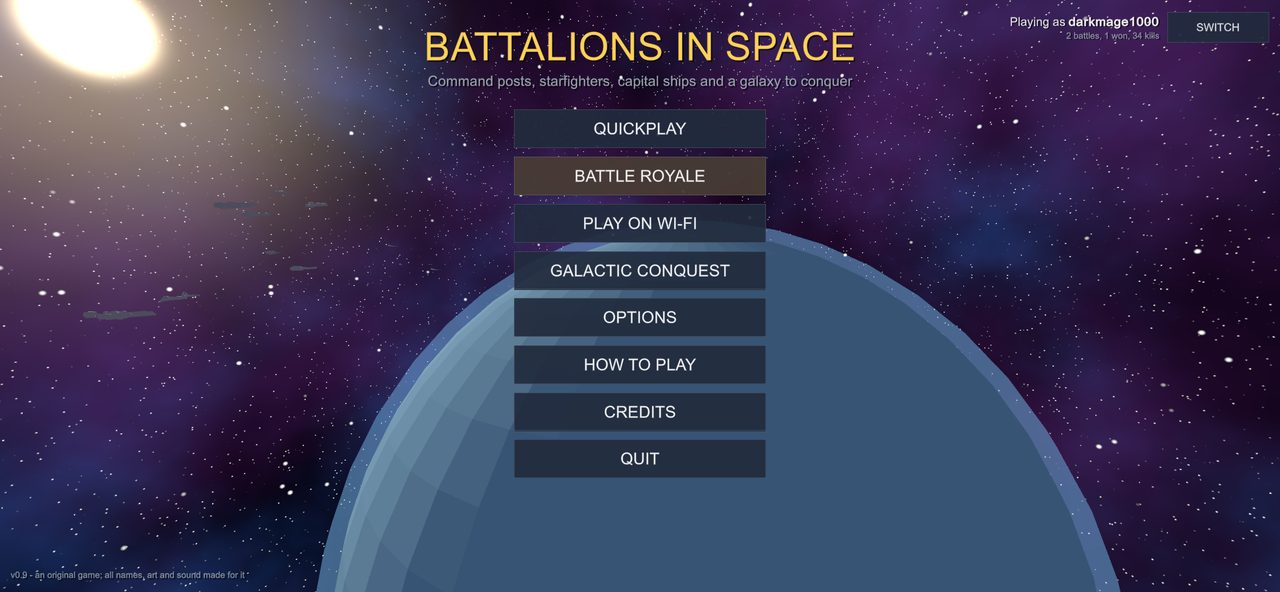
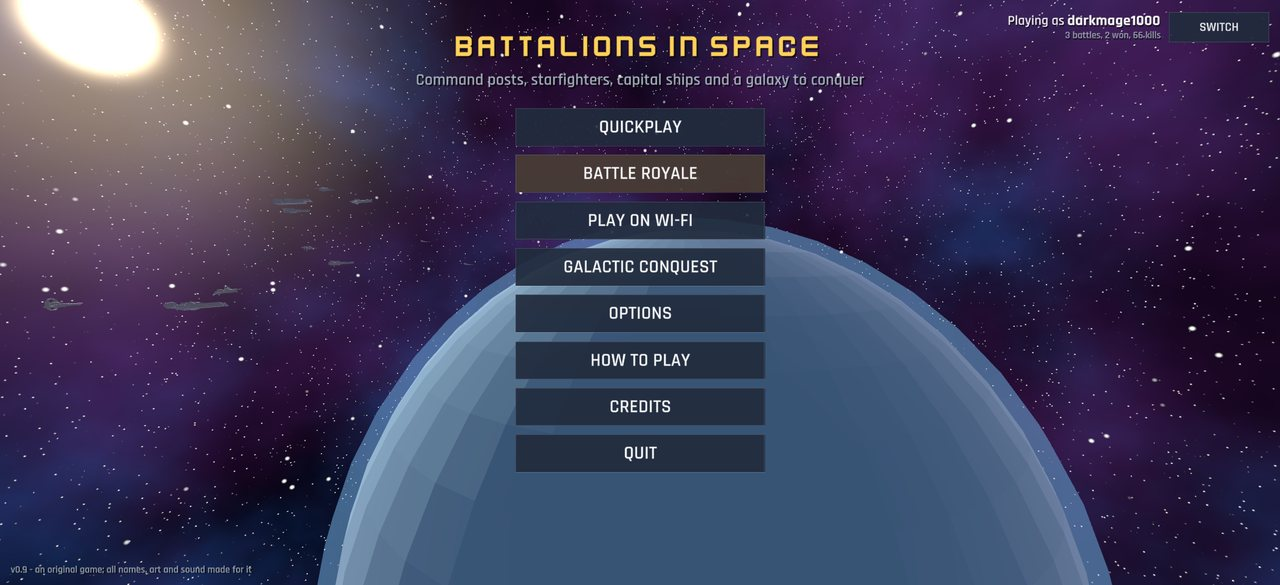
README: new screenshots (menu, land battle, a village, the Synod mech), v0.10 download names; the Synod tank is now called the Monolith Walker; human undersuits in a shade of the armour so gaps between plates read as shading

diff --git a/Assets/Scripts/Data/Factions.cs b/Assets/Scripts/Data/Factions.cs
@@ -220,7 +220,7 @@ namespace BIS
                 Hero("Shard Duelist", "Bladesworn", HeroKind.Blade, W.Blade("Monofilament Edge"), "Dash Strike", "Four arms, one purpose.", new Color(0.12f, 0.12f, 0.14f), new Color(0.9f, 0.9f, 0.9f), new Color(0.3f, 1f, 0.6f)),
                 Hero("The Choir", "Mystic", HeroKind.Mystic, W.Beam("Resonance"), "Kinetic Wave", "A thousand minds singing lightning.", new Color(0.85f, 0.8f, 0.6f), new Color(0.3f, 0.3f, 0.35f), new Color(1f, 0.85f, 0.3f)),
             };
-            synod.tank = Veh("Monolith Tank", VKind.Tank, "Slab-sided hover tank with a lattice cannon.", "Lattice Cannon", null);
+            synod.tank = Veh("Monolith Walker", VKind.Tank, "A walking war machine with a lattice cannon in its arm.", "Lattice Cannon", null);
             synod.transport = Veh("Hive Hauler", VKind.Transport, "Frame transport with a rocket turret.", "Hauler Guns", null);
             synod.air = Veh("Wasp Drone Gunship", VKind.Air, "Drone gunship with lasers and missiles.", "Wasp Lasers", "Stinger Missiles");
             synod.ships = new[]

diff --git a/Assets/Scripts/Units/SoldierRig.cs b/Assets/Scripts/Units/SoldierRig.cs
@@ -188,7 +188,7 @@ namespace BIS
             anim.applyRootMotion = false;
             anim.cullingMode = AnimatorCullingMode.CullUpdateTransforms;
             // the mannequin is the undersuit (dark, or the skin for scaled / alien bodies); the armour pieces carry the look
-            Color bodyCol = body == Body.Reptile || body == Body.Slender ? Color.Lerp(skin, Dark(main, 0.6f), 0.35f) : body == Body.Machine ? Dark(main, 0.55f) : Dark(Color.Lerp(main, second, 0.5f), 0.42f);
+            Color bodyCol = body == Body.Reptile || body == Body.Slender ? Color.Lerp(skin, Dark(main, 0.6f), 0.35f) : body == Body.Machine ? Dark(main, 0.55f) : Dark(main, 0.68f);   // a shade of the armour, so a gap between plates reads as shading
             bodyCol.a = 1;
             Color jointCol = Dark(second, 0.35f);
             smr.sharedMesh = ColouredMannequin(smr, bodyCol, jointCol);

diff --git a/README.md b/README.md
@@ -2,18 +2,20 @@
 
 **A large-scale sci-fi team shooter for Windows and Android.** Four original factions fight over command posts on open battlefields, dogfight between capital ships and board them through the hangar, drop into a 100-player battle royale (solo or in pairs), and wage a turn-based galactic campaign. Two people can play together over Wi-Fi.
 
-**[Download v0.9](https://github.com/darkmage1000/Battalions-in-space/releases/latest)**: Android APK and Windows zip.
+**[Download v0.10](https://github.com/darkmage1000/Battalions-in-space/releases/latest)**: Android APK and Windows zip.
 
 ![Main menu](docs/images/menu.jpg)
 
 | | |
 |---|---|
 | ![A land battle over a command post](docs/images/land_battle.jpg) | ![A capital ship with its hangar open](docs/images/space_battle.jpg) |
-| *Land battle: a squad pushes on a command post* | *Space: a capital ship, its shield up and hangar open* |
+| *Land battle: a squad advances under fire* | *Space: a capital ship, its shield up and hangar open* |
 | ![Gliding into the battle royale](docs/images/royale_drop.jpg) | ![Novo Meridian from above](docs/images/city.jpg) |
 | *Battle royale: gliding down from the dropship* | *Novo Meridian, the city map* |
+| ![A village with gardens, barrels and shutters](docs/images/village.jpg) | ![A Synod walking mech beside a Concord hover tank](docs/images/mech.jpg) |
+| *A battle royale village* | *The Synod walking mech and a Concord hover tank* |
 
-Made in Unity 6 (6000.0.62f1). Everything (factions, characters, ships, planets, story) is original; see [CREDITS.md](CREDITS.md) for the free (CC0) sounds, music and models used.
+Made in Unity 6 (6000.0.62f1). Everything (factions, characters, ships, planets, story) is original; see [CREDITS.md](CREDITS.md) for the free sounds, music, models, textures and fonts used (all CC0 except one font under the SIL Open Font Licence).
 
 ---
 
@@ -88,7 +90,7 @@ Each faction has 5 classes (plus a pilot and a marine for space), 4 heroes, its 
 |---|---|---|---|---|
 | **Terran Concord** (humans) | Rifleman, Breacher, Longshot, Field Engineer, Vanguard (jump-pack) | Elena Voss, Darius Rook, Ilya Mareth, Sena Kai | Bastion tank, Mule APC, Kestrel gunship | Lancer, Hammerhead, Swiftwing, Aegis |
 | **Vorrkai Dominion** (reptilian) | Clawguard, Siegebreaker, Fang Stalker, Forgeling, Ravager (frenzy) | Warlord Skarr, Huntmistress Vyssa, Bladefang Ruuk, Shaman Ossk | Crusher tank, Drake Carrier, Wyrm gunship | Talon, Maw, Viper, Brood Tender |
-| **Iron Synod** (machines) | Unit-K Trooper, Breaker Frame, Optic Sentinel, Fabricator, Phantom Frame (cloak) | Prime Axiom, Executor Vex-9, Shard Duelist, The Choir | Monolith tank, Hive Hauler, Wasp gunship | Spindle, Anvil, Needle, Mender |
+| **Iron Synod** (machines) | Unit-K Trooper, Breaker Frame, Optic Sentinel, Fabricator, Phantom Frame (cloak) | Prime Axiom, Executor Vex-9, Shard Duelist, The Choir | Monolith walker (a mech), Hive Hauler, Wasp gunship | Spindle, Anvil, Needle, Mender |
 | **Kessari Veil** (psionic) | Veil Warden, Lancebearer, Seer, Weaver, Shade (rally) | Matriarch Ysolde, Duelist Kaeth, Starcaller Iru, Ironveil Thane | Pillar tank, Reliquary skiff, Heron gunship | Glaive, Bloom, Mote, Lantern |
 
 **Class roles:**
@@ -193,8 +195,8 @@ Each faction has 5 classes (plus a pilot and a marine for space), 4 heroes, its 
 ## Getting the game
 
 **Download** the latest build from [Releases](https://github.com/darkmage1000/Battalions-in-space/releases/latest):
-- **Android:** `BattalionsInSpace-v0.9-Android.apk`. Open it on the phone and allow installing from this source when asked.
-- **Windows:** `BattalionsInSpace-v0.9-Windows.zip`. Unzip anywhere and run `BattalionsInSpace/BattalionsInSpace.exe`.
+- **Android:** `BattalionsInSpace-v0.10-Android.apk`. Open it on the phone and allow installing from this source when asked.
+- **Windows:** `BattalionsInSpace-v0.10-Windows.zip`. Unzip anywhere and run `BattalionsInSpace/BattalionsInSpace.exe`.
 
 **Or build it yourself** (`Builds/` isn't stored in the repository):
 
@@ -229,6 +231,6 @@ Or use `bash Tools/deploy.sh`, which finds a phone with wireless debugging on an
   - `Conquest`: the campaign.
   - `Net`: Wi-Fi play.
   - `UI`.
-- **The scene holds almost nothing**: maps, soldiers, vehicles and ships are built in code, and most models are made from simple shapes at start-up.
+- **The scene holds almost nothing**: maps, soldiers, vehicles and ships are put together in code at start-up, from simple shapes and from free CC0 models (guns, trees, rocks, village props, starfighters, the Synod mech, soldier bodies) that are recoloured per faction and merged into each map's meshes.
 - **Project notes**: `CLAUDE.md` holds the detailed design notes, the numbers behind every rule, and how each system was tested.
 - **Self-tests**: run the Windows build with `-autotest` for a battle self-test. For a two-copy Wi-Fi test, start one copy with `-nethost` (add `-royale`, `-duos`) and one with `-netjoin 127.0.0.1`.
